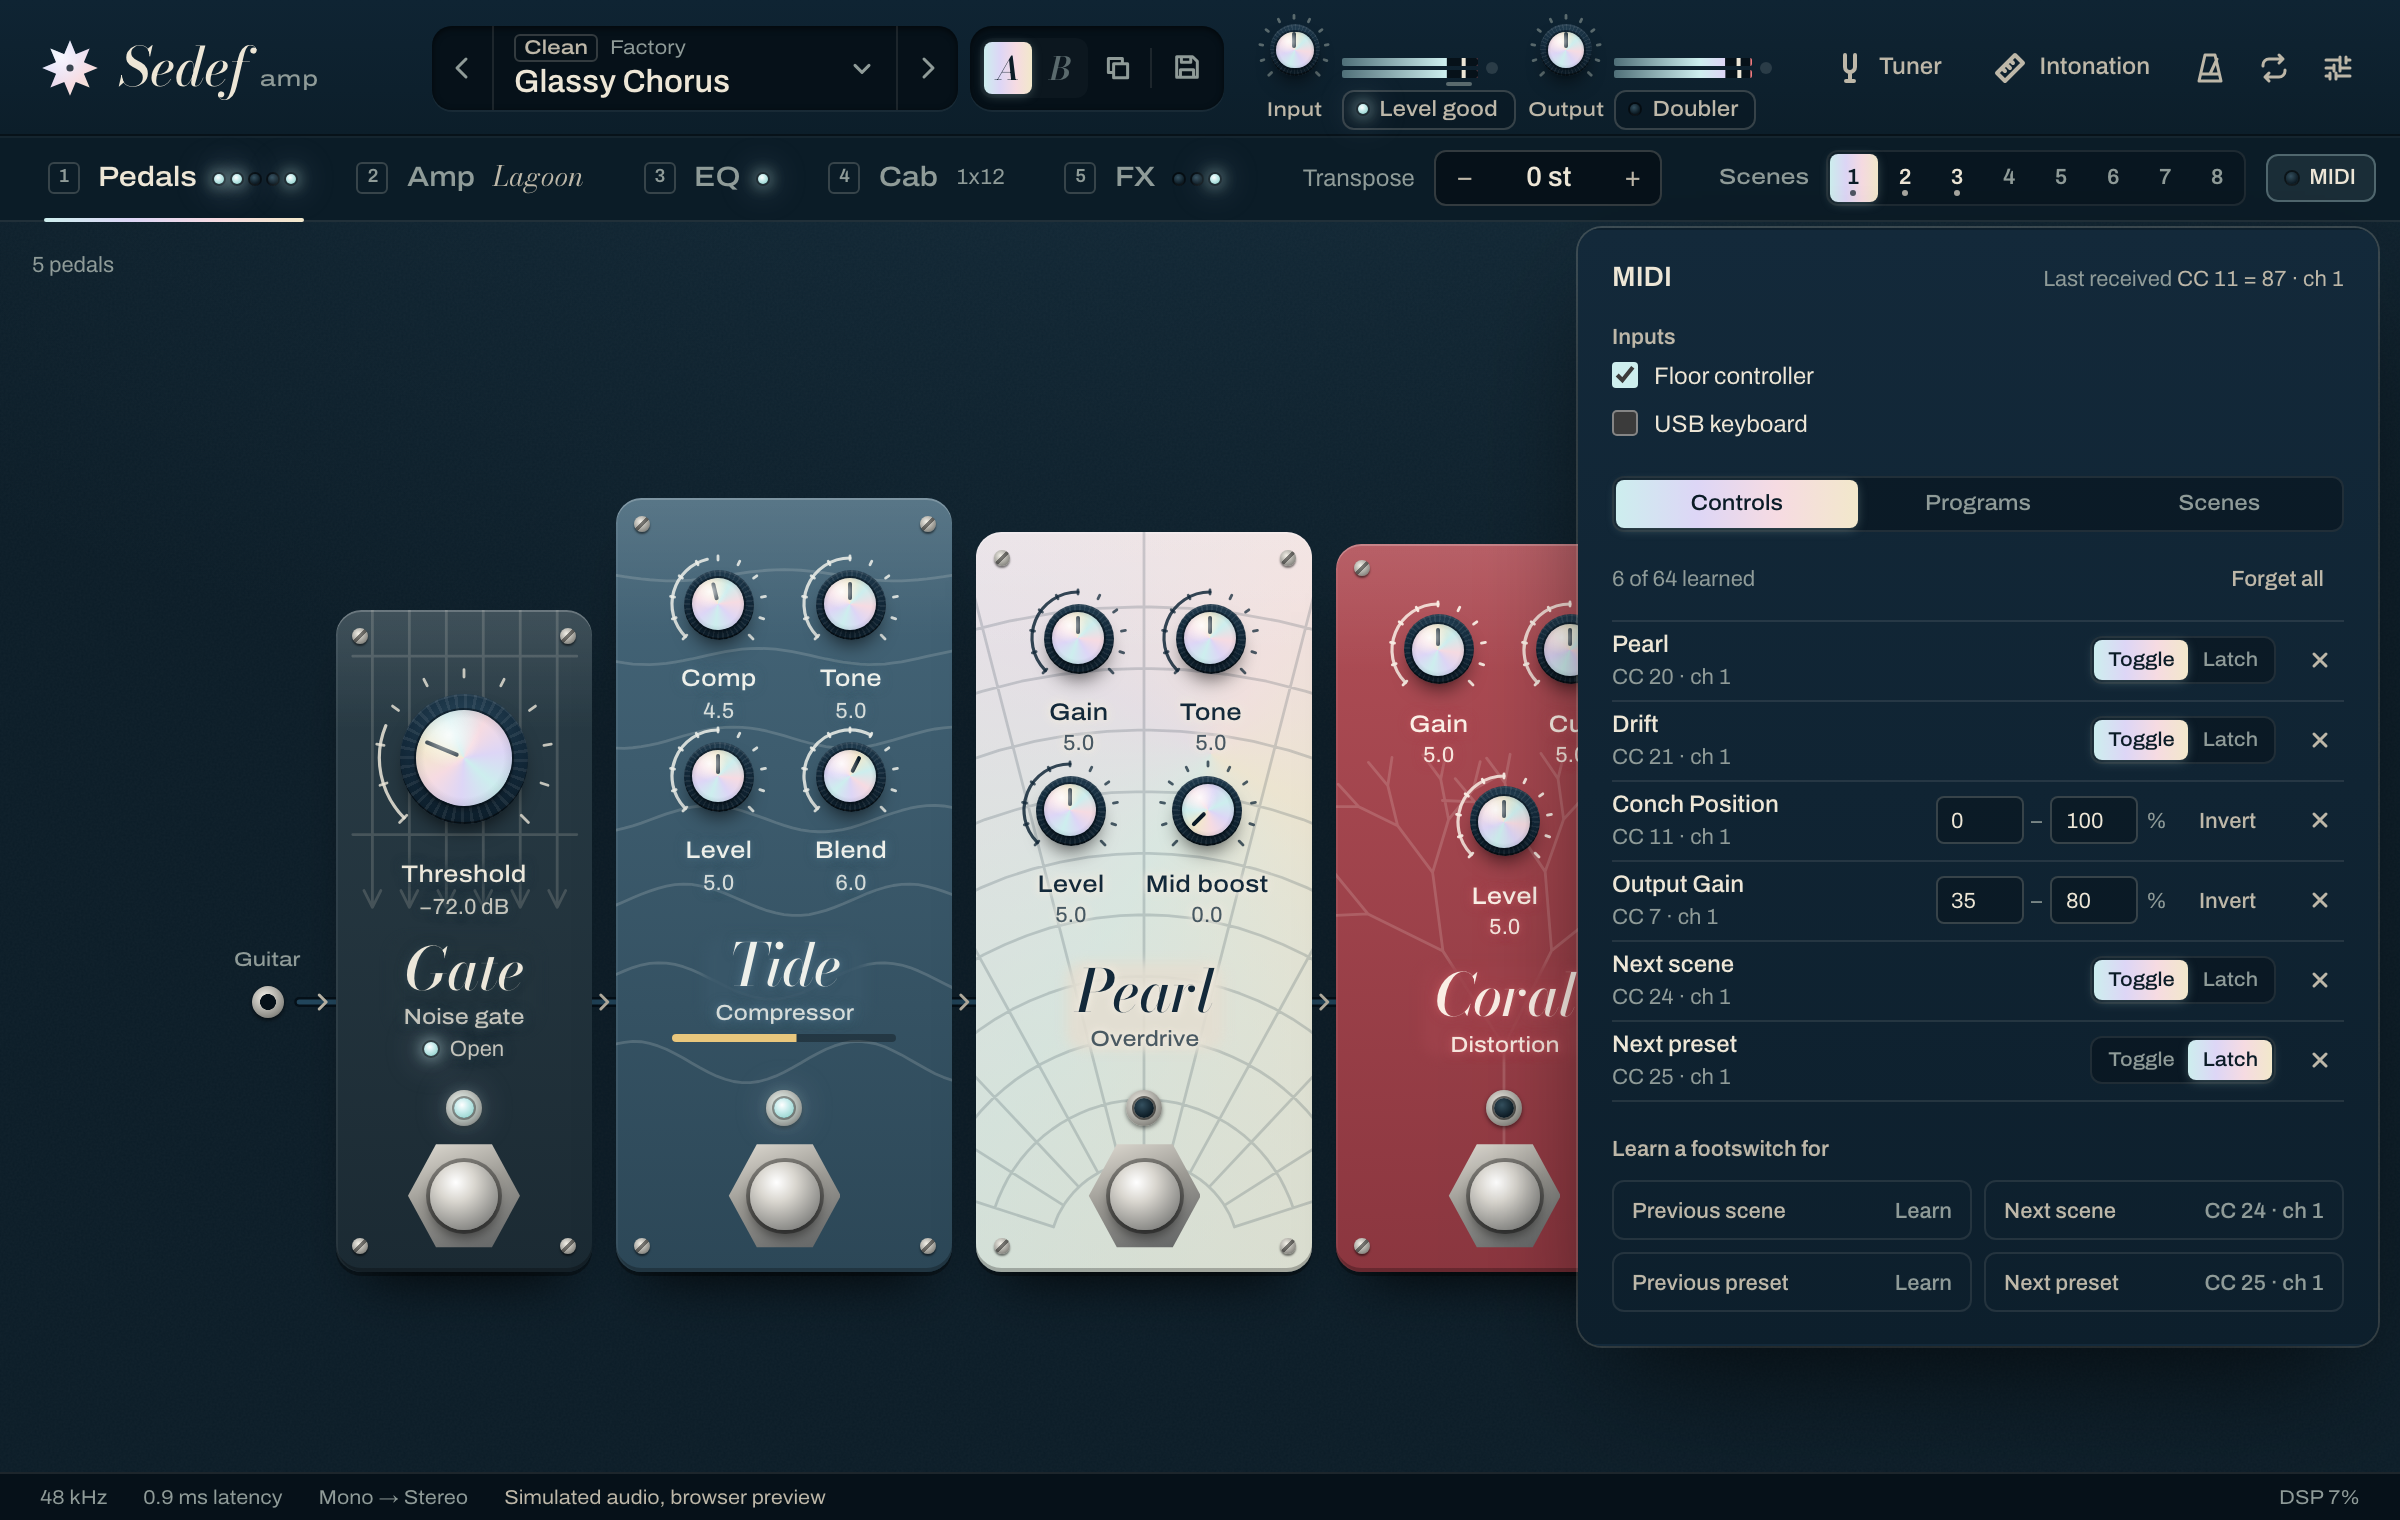
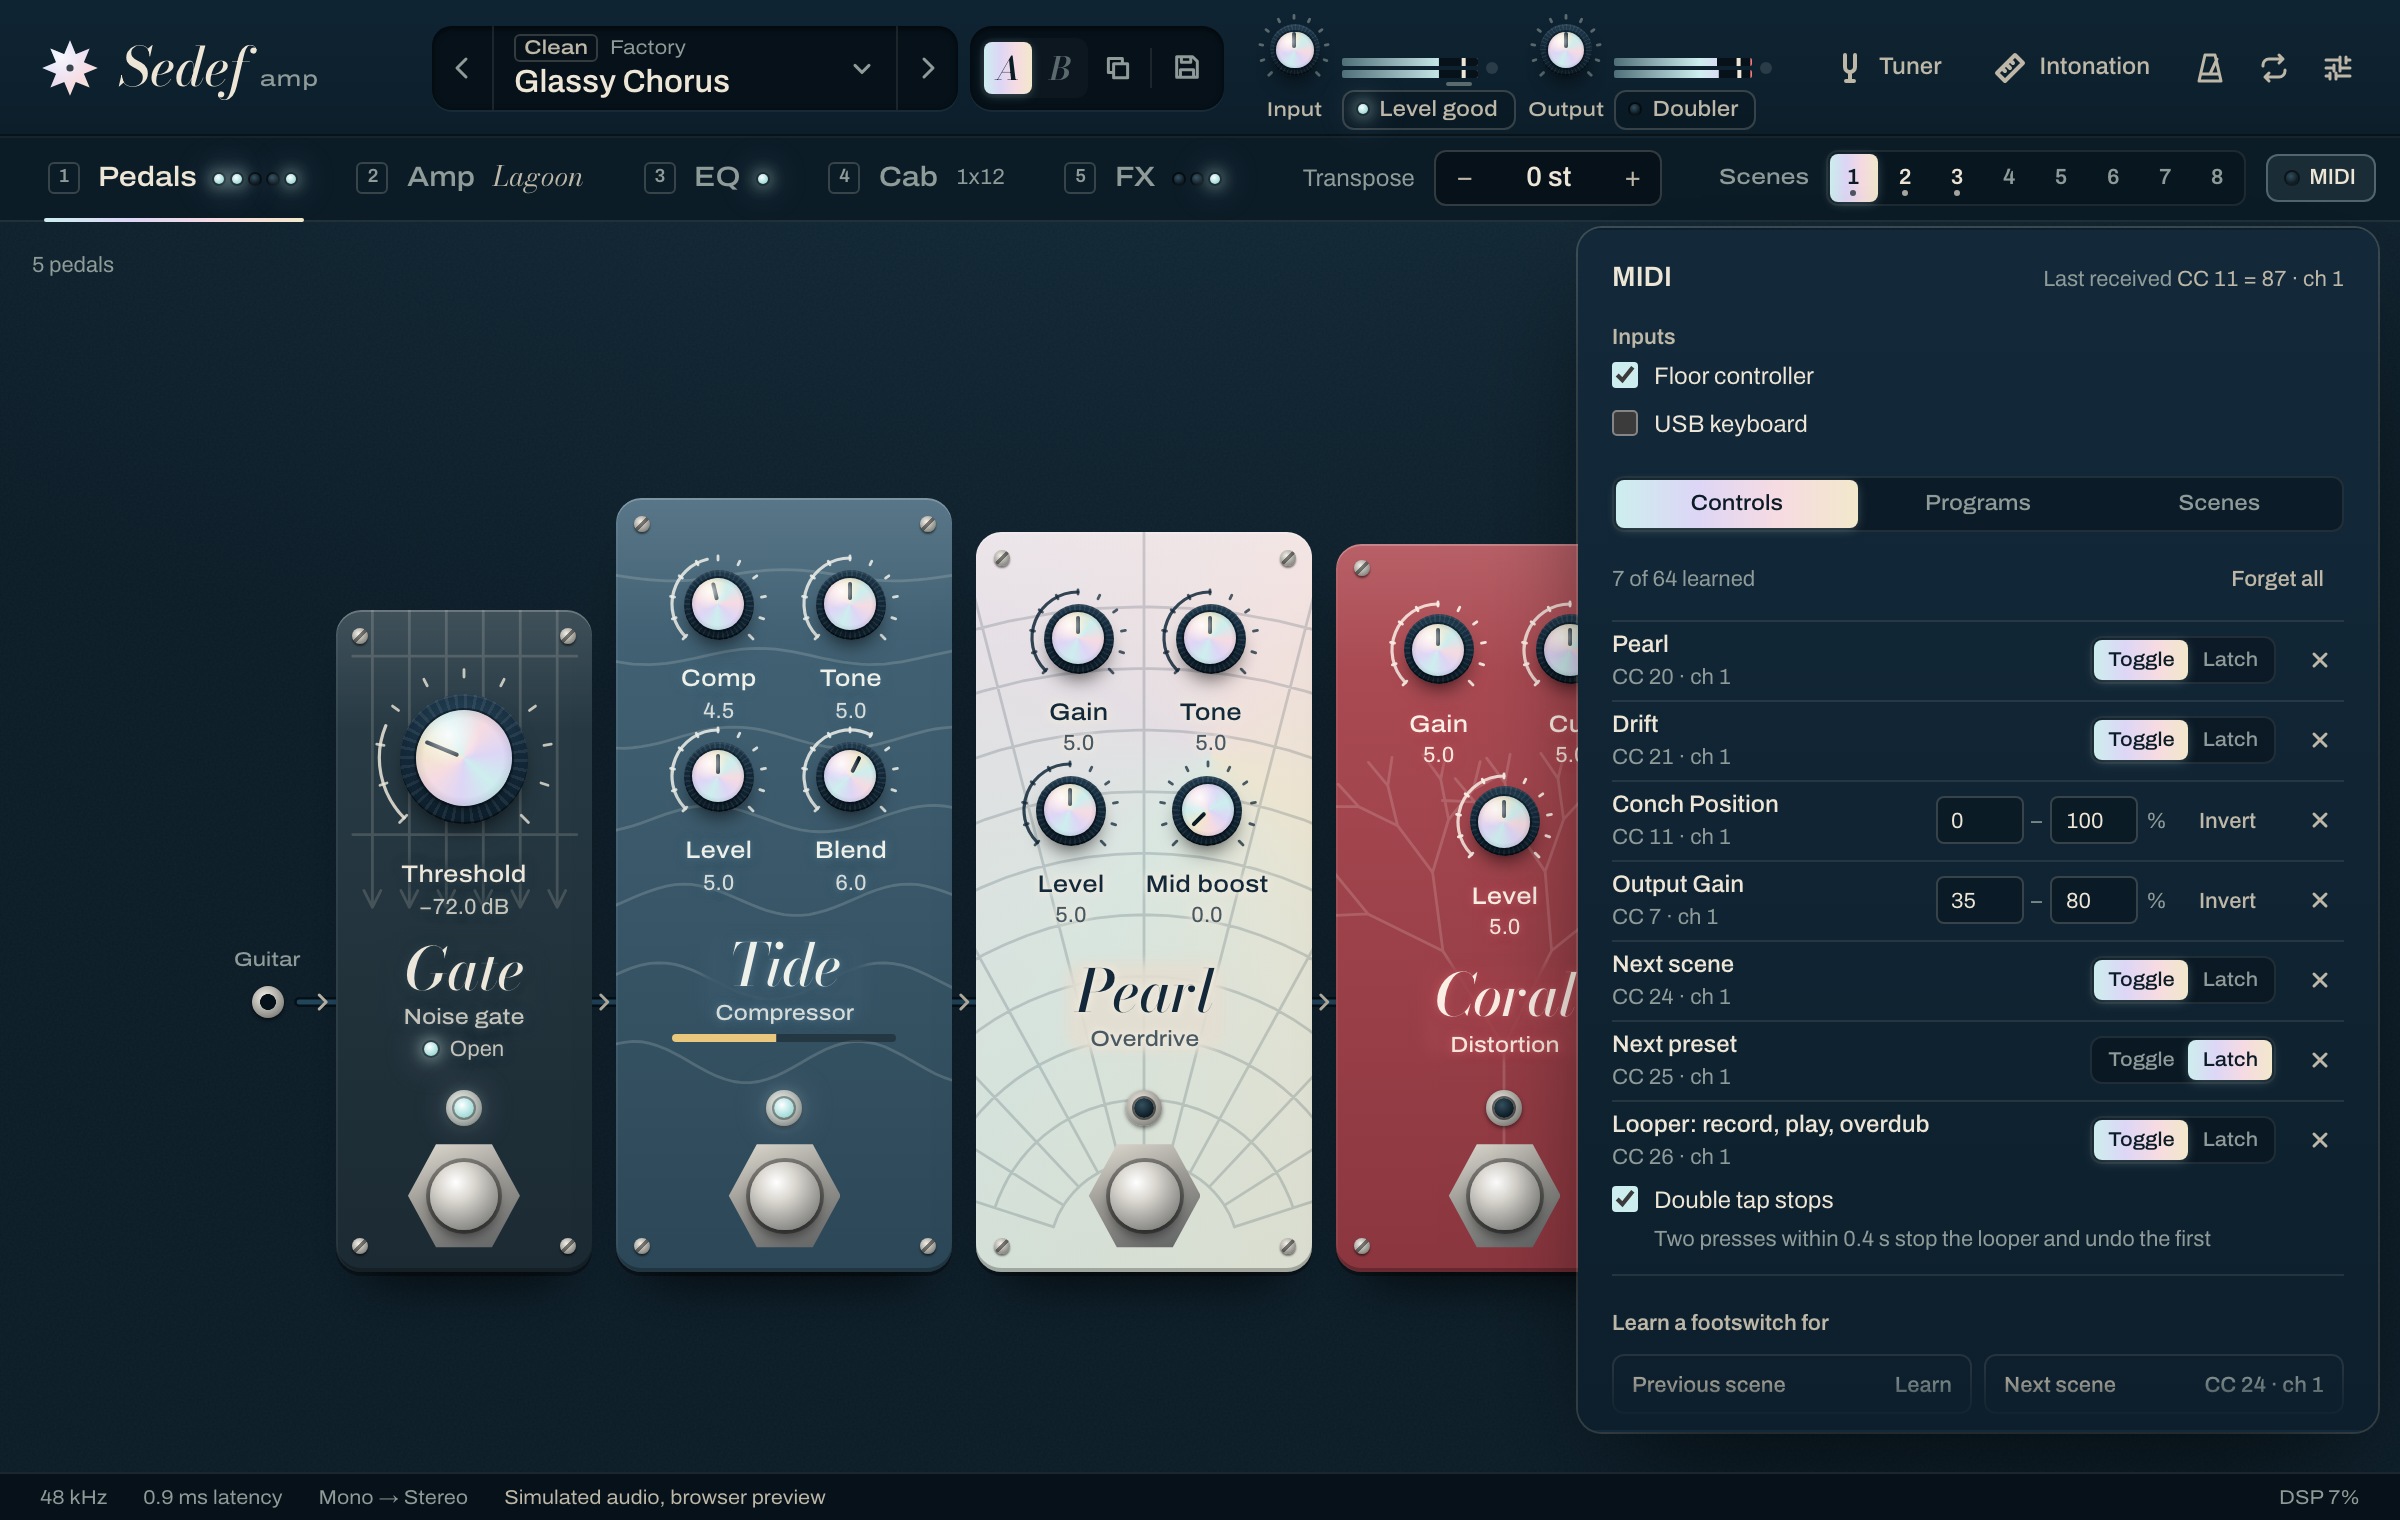
Docs: the looper's footswitches
README, docs/looper.md, docs/ui.md and the CHANGELOG describe the four
footswitch actions and the double tap. New screenshots: the big button's
learn menu over the looper popover, and the MIDI panel's looper group;
live-midi.png shows the demo's looper binding.

diff --git a/docs/ui.md b/docs/ui.md
@@ -227,10 +227,10 @@ browser the canvas fits the window. Everything is vector or text, so it stays cr
 | Tuner      | needle + strobe, note and octave, cents, Hz, "Tune up" hint, reference 420–460 Hz, mute; in tune within ±1 cent after 0.15 s, with hysteresis; holds the last reading ([tuner.md](dsp/tuner.md#3-display)); "Nothing is coming in" with Check input while the input level says No signal                                                                                                                                                                                                                                                                                                                                                                                                                                                                                                                                                                                                                                                                                                                      |
 | Intonation | instrument → measure each string (tune open, capture 12th fret, result with saddle diagram) → summary with copy as text                                                                                                                                                                                                                                                                                                                                                                                                                                                                                                                                                                                                                                                                                                                                                                                                         |
 | Metronome  | play/stop, tempo knob + tap, signature, sound, volume, step grid (off/normal/accent/soft, with a line saying what a click does), live beat                                                                                                                                                                                                                                                                                                                                                                                                                                                                                                                                                                                                                                                                                                                                                                                                                            |
-| Looper     | the big button (Record, then close and play, Overdub, Play; Cancel while it waits for the 1) inside a ring that fills with the loop, the state in words and colour (recording red, overdub amber, playing nacre), bars and seconds, Stop, Undo, Redo, Clear with an Undo notice, level, feedback, count-in; `L` anywhere, `Shift+L` stop, Space in the panel; the header button keeps the state as a ring and a corner badge (dot, plus, triangle, square; hollow while it waits) and a polite live region announces each new state ([looper.md](looper.md)) |
+| Looper     | the big button (Record, then close and play, Overdub, Play; Cancel while it waits for the 1) inside a ring that fills with the loop, the state in words and colour (recording red, overdub amber, playing nacre), bars and seconds, Stop, Undo, Redo, Clear with an Undo notice, level, feedback, count-in; `L` anywhere, `Shift+L` stop, Space in the panel; the header button keeps the state as a ring and a corner badge (dot, plus, triangle, square; hollow while it waits) and a polite live region announces each new state; the big button, Stop, Undo and Clear take a footswitch through their menu ([looper.md](looper.md), [live.md](live.md) §4.5) |
 | Settings   | Audio settings… (standalone app only: the app's audio device window); window size; Stereo input (sum to mono or two channels); Latency: Low latency or Linear phase, a global setting kept out of presets ([oversampling.md](dsp/oversampling.md)); updates; About with the session's rate and latency, which follow the Latency setting                                                                                                                                                                                                                                                                                                                                                                                                                                                                                                                                                                                                                                                              |
 | Updates    | status bar pill when a newer release is out ("Update available"), while it updates ("Updating…") or once installed ("Restart to update"); panel with versions, last check, Check now, the automatic-check switch, release notes, Update now (download with progress and Cancel, then the OS installer's steps), Restart Sedef in the standalone app, Install manually and the releases page after a failure, Skip this version, Later ([updates.md](updates.md))                                                                                                                                                                                                                                                                                                                                                                                                                                                                    |
-| MIDI       | panel under the MIDI button: last message received, the format's limits (VST3: no program changes; AU: what the host sends), the standalone app's inputs; tabs Controls (learned controls with Toggle/Latch or range and Invert, Forget, Forget all with a confirmation, learn for scene and preset steps), Programs (channel, assignments to a preset or a scene, library order otherwise), Scenes (the knobs scenes keep, copy the scene in use) |
+| MIDI       | panel under the MIDI button: last message received, the format's limits (VST3: no program changes; AU: what the host sends), the standalone app's inputs; tabs Controls (learned controls with Toggle/Latch or range and Invert, Forget, Forget all with a confirmation, learn for scene and preset steps and, in the standalone app, for the looper; the looper's main switch has *Double tap stops*), Programs (channel, assignments to a preset or a scene, library order otherwise), Scenes (the knobs scenes keep, copy the scene in use) |
 | Control menu | right-click, the context-menu key or Shift+F10 on a knob, switch, lever, scene button or preset arrow (anything with `data-param` or `data-learn`): Learn MIDI, Forget, Remember in scenes / Same in every scene, Copy scene N here; arrows, Enter, Escape. Learning shows a banner over the rig and outlines the control; Escape cancels |
 
 ### Pedalboard

diff --git a/docs/looper.md b/docs/looper.md
@@ -25,6 +25,10 @@ overdub, then play), so it can be driven with one hand on the guitar and a key o
 - **Level** sets how loud the loop plays against what you play live.
 - The looper never clicks: every start, stop, punch-in, punch-out and the seam where the loop
   wraps are 10 ms crossfades.
+- **Footswitches** work it too: learn one for the main button, Stop, Undo (pressed again, Redo)
+  and Clear, by right-clicking the button or from the MIDI panel. With *Double tap stops* on, two
+  quick presses of the main switch stop the looper and take back what the first one started
+  ([live.md](live.md) §4.5).
 
 ## 2. Where it lives
 
@@ -333,7 +337,8 @@ The panel, top to bottom:
   while the click runs.
 
 Keys: `L` anywhere (outside text fields) is the main button, `Shift+L` is Stop; inside the panel
-Space is the main button too. The panel follows [ui.md](ui.md): the shared buttons and knobs,
+Space is the main button too. The main button, Stop, Undo and Clear take a footswitch: right-click
+one (or Shift+F10 on it) and choose *Learn MIDI* ([live.md](live.md) §4.5). The panel follows [ui.md](ui.md): the shared buttons and knobs,
 visible focus, accessible names, a polite live region that announces state changes
 ("Recording", "Playing, 4 bars"), and under reduced motion the ring steps instead of gliding.
 

diff --git a/README.md b/README.md
@@ -86,8 +86,9 @@ exactly on the "1", with an optional bar of count-in, and the click stays locked
 long you play. Undo takes back the last part, Clear has an Undo too, and Feedback sets how much
 of the old take stays under a new one. It records the sound you hear, effects included, so you can
 change presets and solo over your rhythm part. Every start, stop and seam is crossfaded: no
-clicks. See [docs/looper.md](docs/looper.md) for the design, the timing to the sample and the
-memory it uses.
+clicks. A foot controller can work it as well: learn a footswitch for the main button, Stop,
+Undo and Clear, and optionally let a double tap stop it. See [docs/looper.md](docs/looper.md) for
+the design, the timing to the sample and the memory it uses.
 
 <img src="docs/images/looper.png" alt="The looper panel: a four-bar loop playing, its ring two fifths round, with Stop, Undo, Redo, Clear, level, feedback and count-in" width="100%">
 

diff --git a/CHANGELOG.md b/CHANGELOG.md
@@ -8,6 +8,11 @@ All notable changes to this project are documented here. The format follows
 
 ### Added
 
+- **Footswitches for the looper.** Right-click the looper's big button, Stop, Undo or Clear (or
+  use the MIDI panel) and press a footswitch: your feet now record, close the loop, overdub, stop,
+  undo and clear. The undo switch also redoes when pressed again, so one switch compares the loop
+  with and without its last part. Turn on *Double tap stops* for the main switch and two quick
+  presses (less than 0.4 s apart) stop the looper and take back what the first press started.
 - **A looper in the standalone app**, next to the metronome. One button, or the `L` key so a
   hand stays on the guitar, records, closes the loop and plays it, then lays parts on top; press
   it again to go back to playing. `Shift+L` stops. Up to two minutes at 48 kHz (one at 96).
